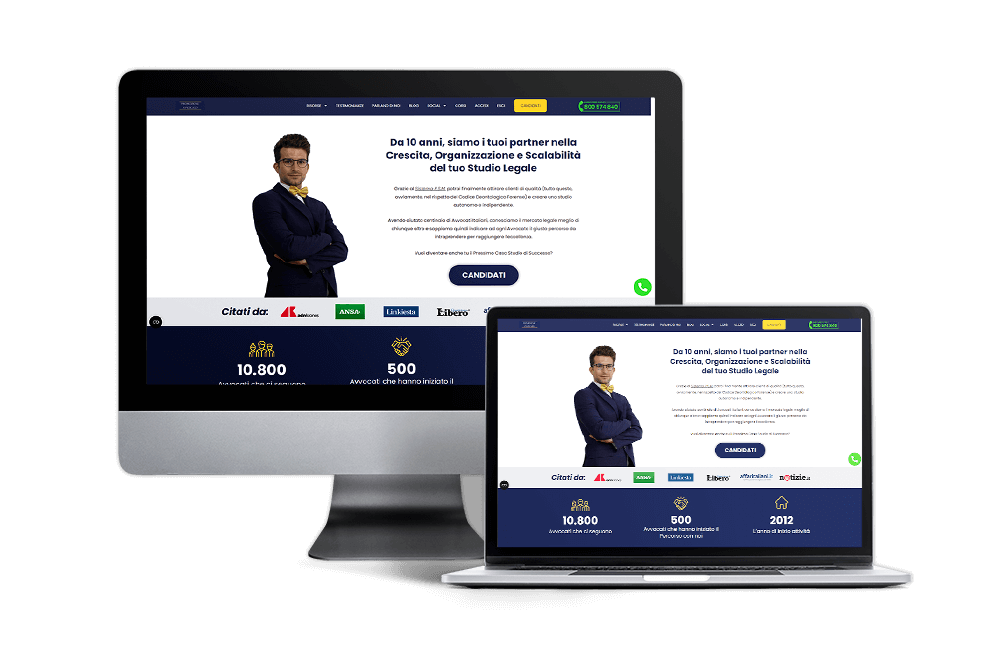
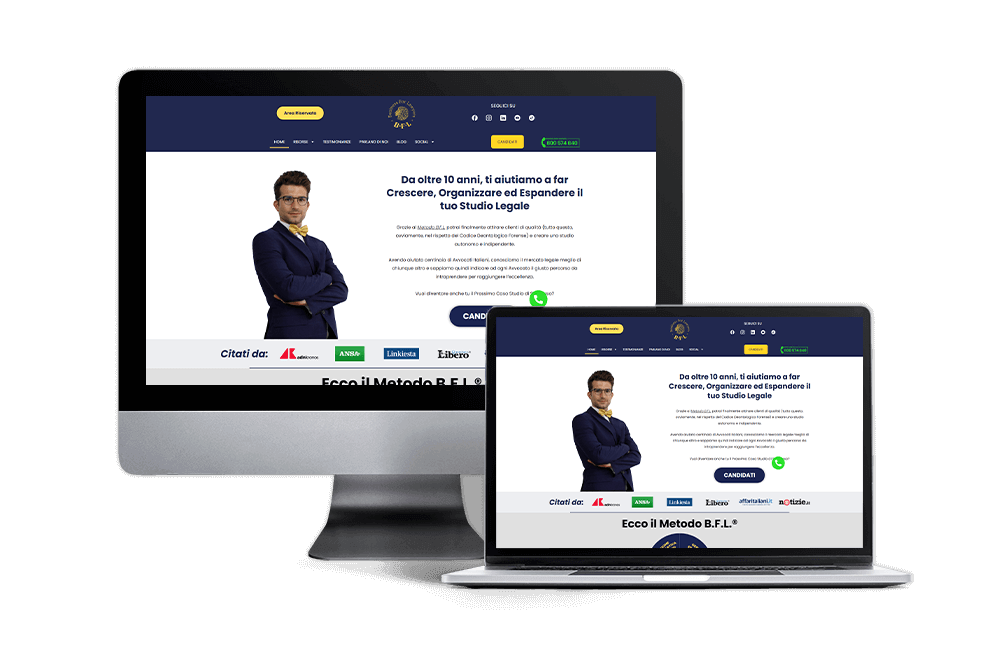
migliorie css

Changed region(s): [[0.124, 0.1499, 0.868, 0.8396]]

diff --git a/index.html b/index.html
@@ -41,8 +41,8 @@
             <div id="LogoUp" class="logo"><img src="img/logo personale bianco.png" alt="logo personale"></div>
             <nav class="menu">
                 <ul>
-                    <li><a href="#works">lavori</a></li>
-                    <li><a href="#contacts">Contatti</a></li>
+                    <li><a href="#works">Works</a></li>
+                    <li><a href="#contacts">Contacts</a></li>
                 </ul>
             </nav>
         </div>
@@ -50,18 +50,18 @@
 
     <section class="hero">
         <div class="container hero-content">
-            <h1>Ciao, io sono<br>Matteo Ambruschi</h1>
-            <h3>Sviluppatore web<br>di Bergamo</h3>
-            <a class="hero-cta" href="#works">Scopri i miei lavori</a>
+            <h1>Hi, I'm<br>Matteo Ambruschi</h1>
+            <h3>a web developer<br>from Bergamo</h3>
+            <a class="hero-cta" href="#works">Discover my works</a>
         </div>
     </section>
 
     <section class="works-menu">
         <div class="container">
             <ul>
-                <li><a id="idbtn" class="button" href="#works">Promozione Avvocato</a></li>
+                <li><a id="idbtn" class="button" href="#works">Business For Lawyers</a></li>
                 <li><a id="idbtn1" class="button" href="#work2">L'arte D'annodare</a></li>
-                <li><a id="idbtn2" class="button" href="#work3">Altri Lavori</a></li>
+                <li><a id="idbtn2" class="button" href="#work3">Other works</a></li>
             </ul>
         </div>
     </section>
@@ -75,13 +75,13 @@
  <!-- Prima parte -->
 
         <div class="works-item">
-            <div class="works-item-tags">Web Developer \ Online \ 2022</div>
-            <h2>Promozione Avvocato</h2>
+            <div class="works-item-tags">Web Developer \ Online \ 2021</div>
+            <h2>Business For Lawyers</h2>
 
             <div class="work-info">
-                <div class="work-info-label">about</div>
+                <div class="work-info-label">Skills</div>
                 <div class="work-info-content">
-                    <p>Lorem ipsum dolor sit amet consectetur adipisicing elit. Temporibus, repellendus?</p>
+                    <p>Web Design · WordPress Developer · HTML · CSS · Search Engine Optimization (SEO) · Google Analytics · Adobe Premiere Pro · Adobe Illustrator · Adobe Illustrator · Adobe Photoshop · Graphic Design · Advertising · User Experience Design</p>
                     </div>
             </div>
 
@@ -94,8 +94,8 @@
             </div>
 
 <div class="spin">
-            <script defer type="module" src="https://unpkg.com/@splinetool/viewer@0.9.282/build/spline-viewer.js"></script>
-            <spline-viewer url="https://prod.spline.design/JV20Vi5dtkuCsOuv/scene.splinecode"></spline-viewer>
+    <script type="module" src="https://unpkg.com/@splinetool/viewer@0.9.369/build/spline-viewer.js"></script>
+    <spline-viewer url="https://prod.spline.design/JV20Vi5dtkuCsOuv/scene.splinecode"></spline-viewer>
 
  </div>
             <div class="images">
@@ -113,7 +113,7 @@
             <h2>L'arte D'annodare</h2>
 
             <div class="work-info">
-                <div class="work-info-label">about</div>
+                <div class="work-info-label">Skills</div>
                 <div class="work-info-content">
                     <p>Lorem ipsum dolor sit amet consectetur adipisicing elit. Temporibus, repellendus?</p>
                     </div>
@@ -143,10 +143,10 @@
     <div class="works-item">  
         <a class="anchors" id="work3"></a>
         <div class="works-item-tags">Web Developer \ Online \ ????</div>
-            <h2>Altri Lavori</h2>
+            <h2>Other works</h2>
 
             <div class="work-info">
-                <div class="work-info-label">about</div>
+                <div class="work-info-label">Skills</div>
                 <div class="work-info-content">
                     <p>Lorem ipsum dolor sit amet consectetur adipisicing elit. Temporibus, repellendus?</p>
                     </div>

diff --git a/style.css b/style.css
@@ -287,8 +287,8 @@ section {
 }
 @media screen and (max-width:576px) {
     .header {
-        padding-top: 2%;
-        padding-bottom: 4%;
+        padding-top: 3%;
+        padding-bottom: 2%;
     }
 }
 
@@ -306,11 +306,11 @@ section {
     margin-bottom: 2%;
 }
 
-@media screen and (max-width:576px) {
+@media screen and (max-width:768px) {
     .logo img{
-        width: 40px;
+        width: 35px;
         height: auto;
-        margin-right: 30px;
+        margin-right: 24px;
         margin-top: 5%;
         margin-bottom: 2%;
     }
@@ -330,6 +330,17 @@ section {
 .menu ul li a {
     font-size: 24px;
 }
+
+@media screen and (max-width:768px) {
+    .menu ul li {
+        margin-right: 24px;
+    }
+    
+    .menu ul li a {
+        font-size: 20px;
+    }
+}
+
 
 
 .works-menu {
